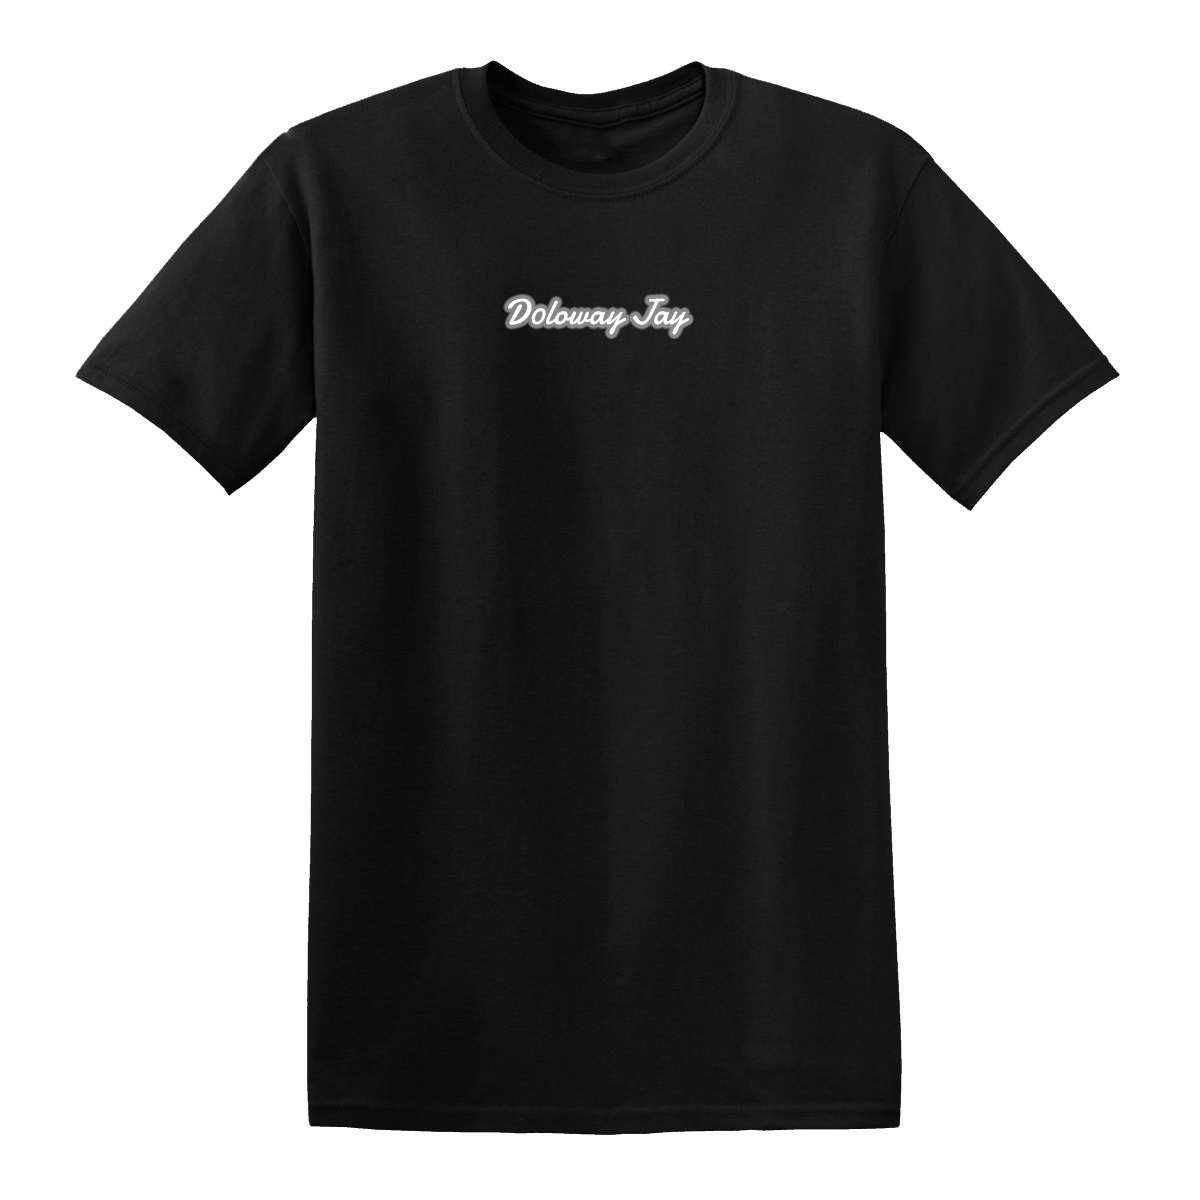
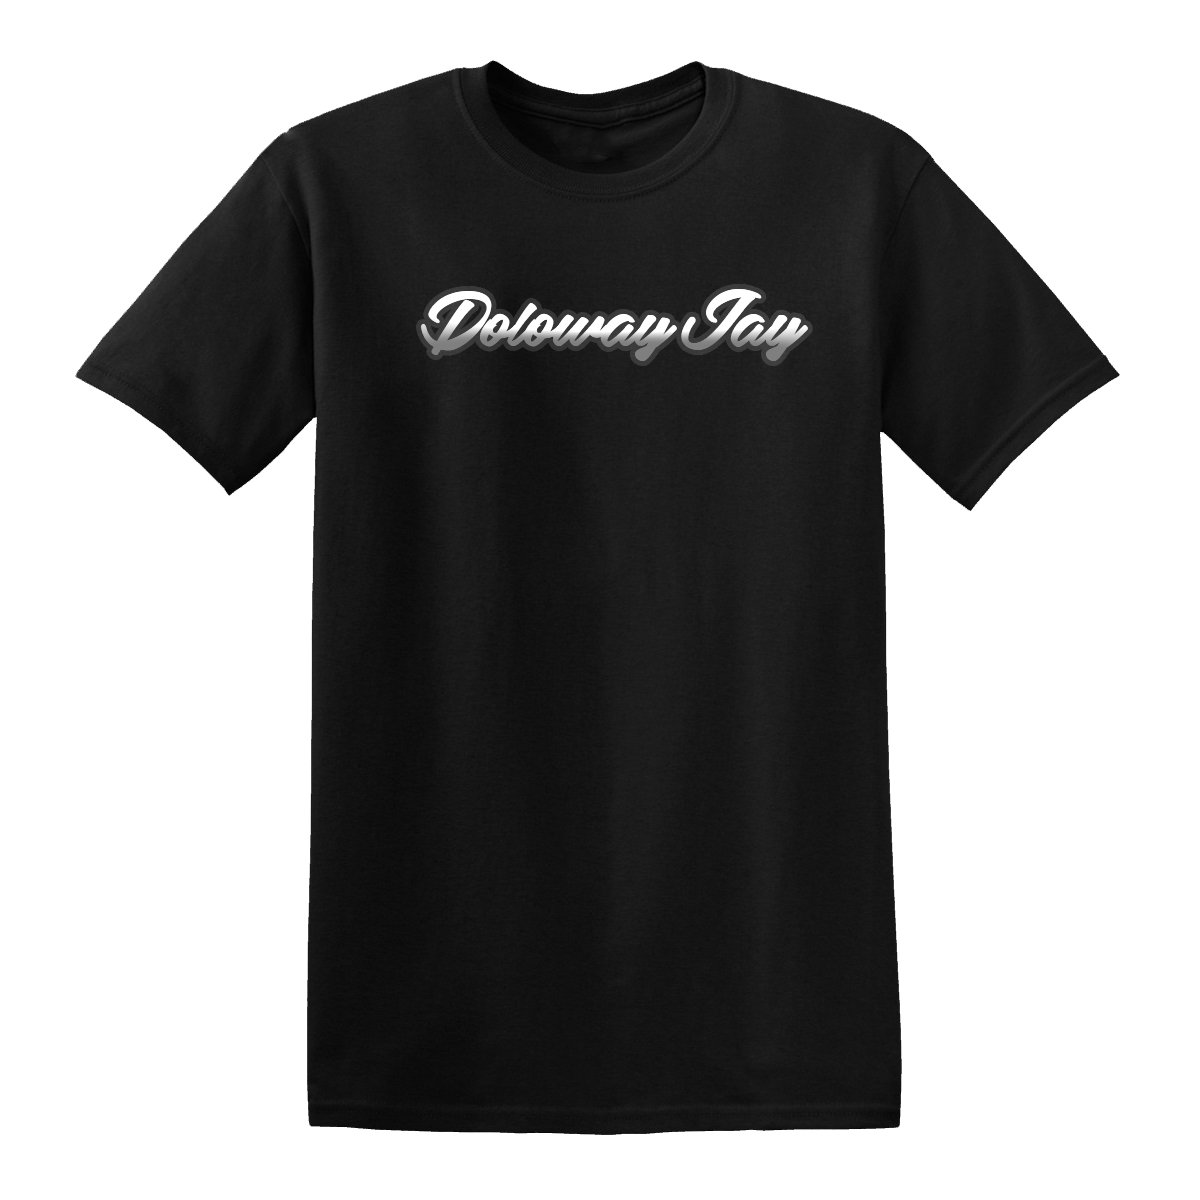
upload
Doloway Jay shirts r,w,r,b
10:17AM
10/06/2020

Changed region(s): [[0.3392, 0.2158, 0.6783, 0.3083]]

diff --git a/shop.html b/shop.html
@@ -308,20 +308,20 @@ Rich Jeffrey
 </div>
 </div>
 <div class="mw">
-MW
+Doloway  Jay
 </div>
 <div class='row'>
 <div class='column'>
-<img src='mw-reflective-text.png' style='width:100%'>
+<img src='jay-reflective-text.png' style='width:100%'>
 </div>
 <div class='column'>
-<img src='mw-white-text.png' style='width:100%'>
+<img src='jay-white-text.png' style='width:100%'>
 </div>
 <div class='column'>
-<img src='mw-red-text.png' style='width:100%'>
+<img src='jay-red-text.png' style='width:100%'>
 </div>
 <div class='column'>
-<img src='mw-black-text.png' style='width:100%'>
+<img src='jay-black-text.png' style='width:100%'>
 </div>
 </div>
 </div>
